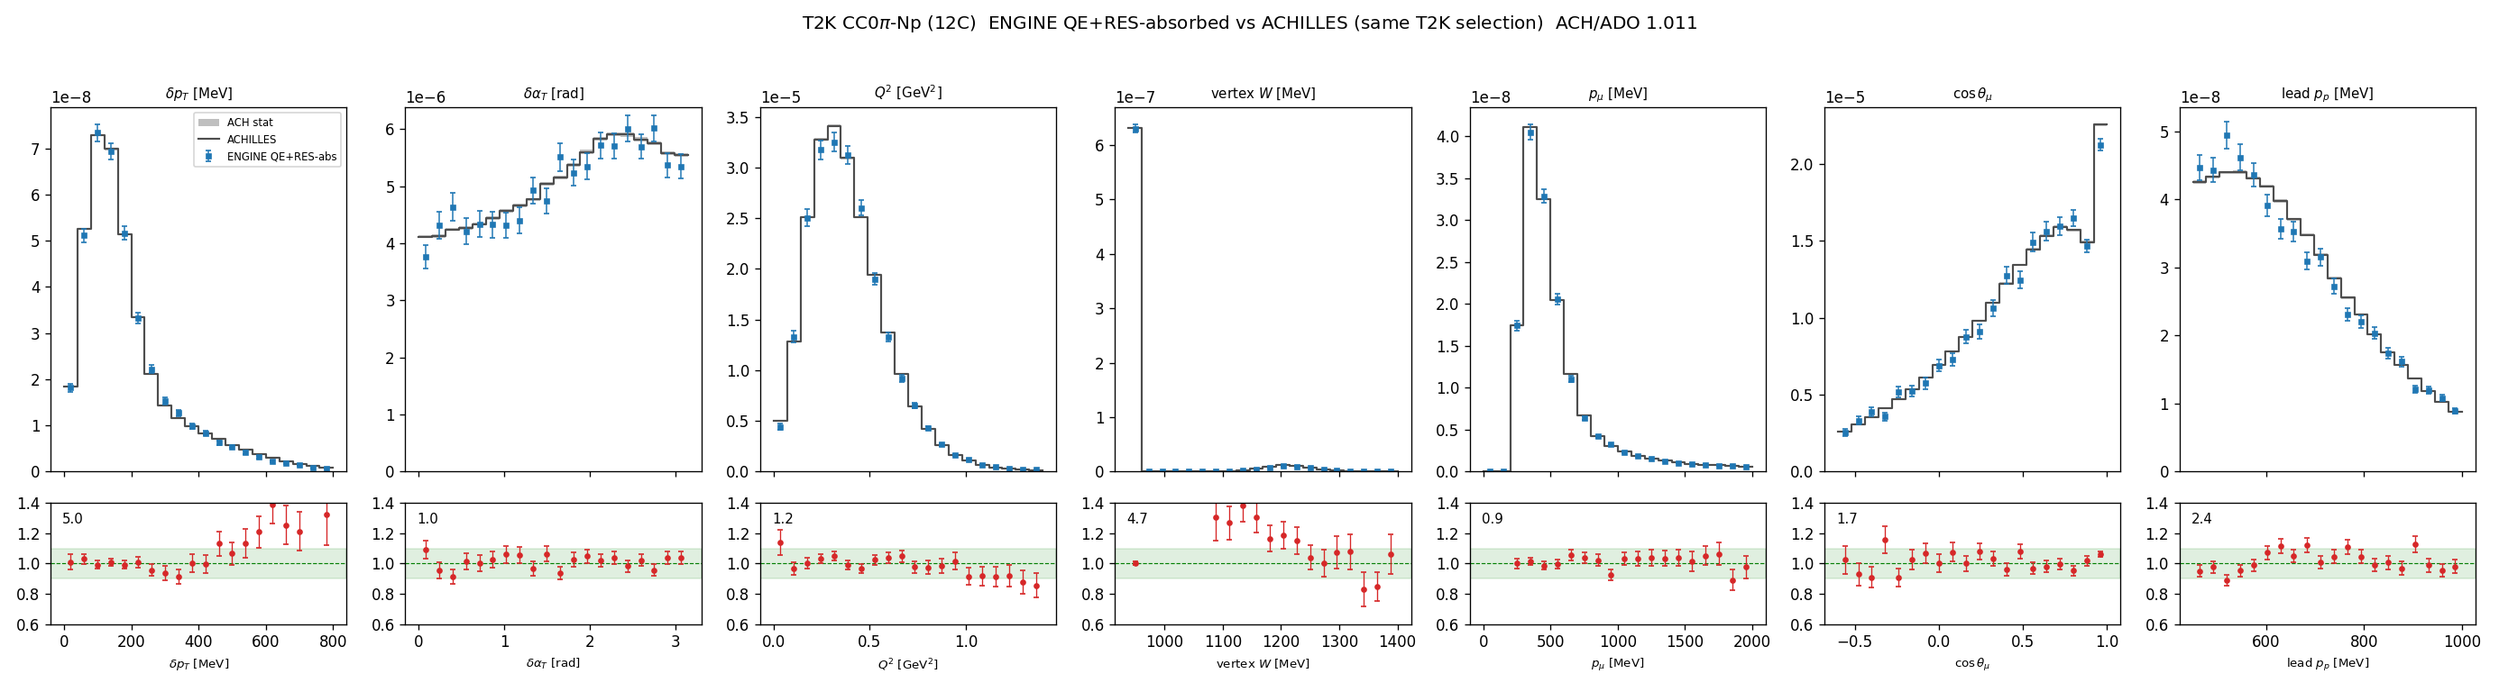
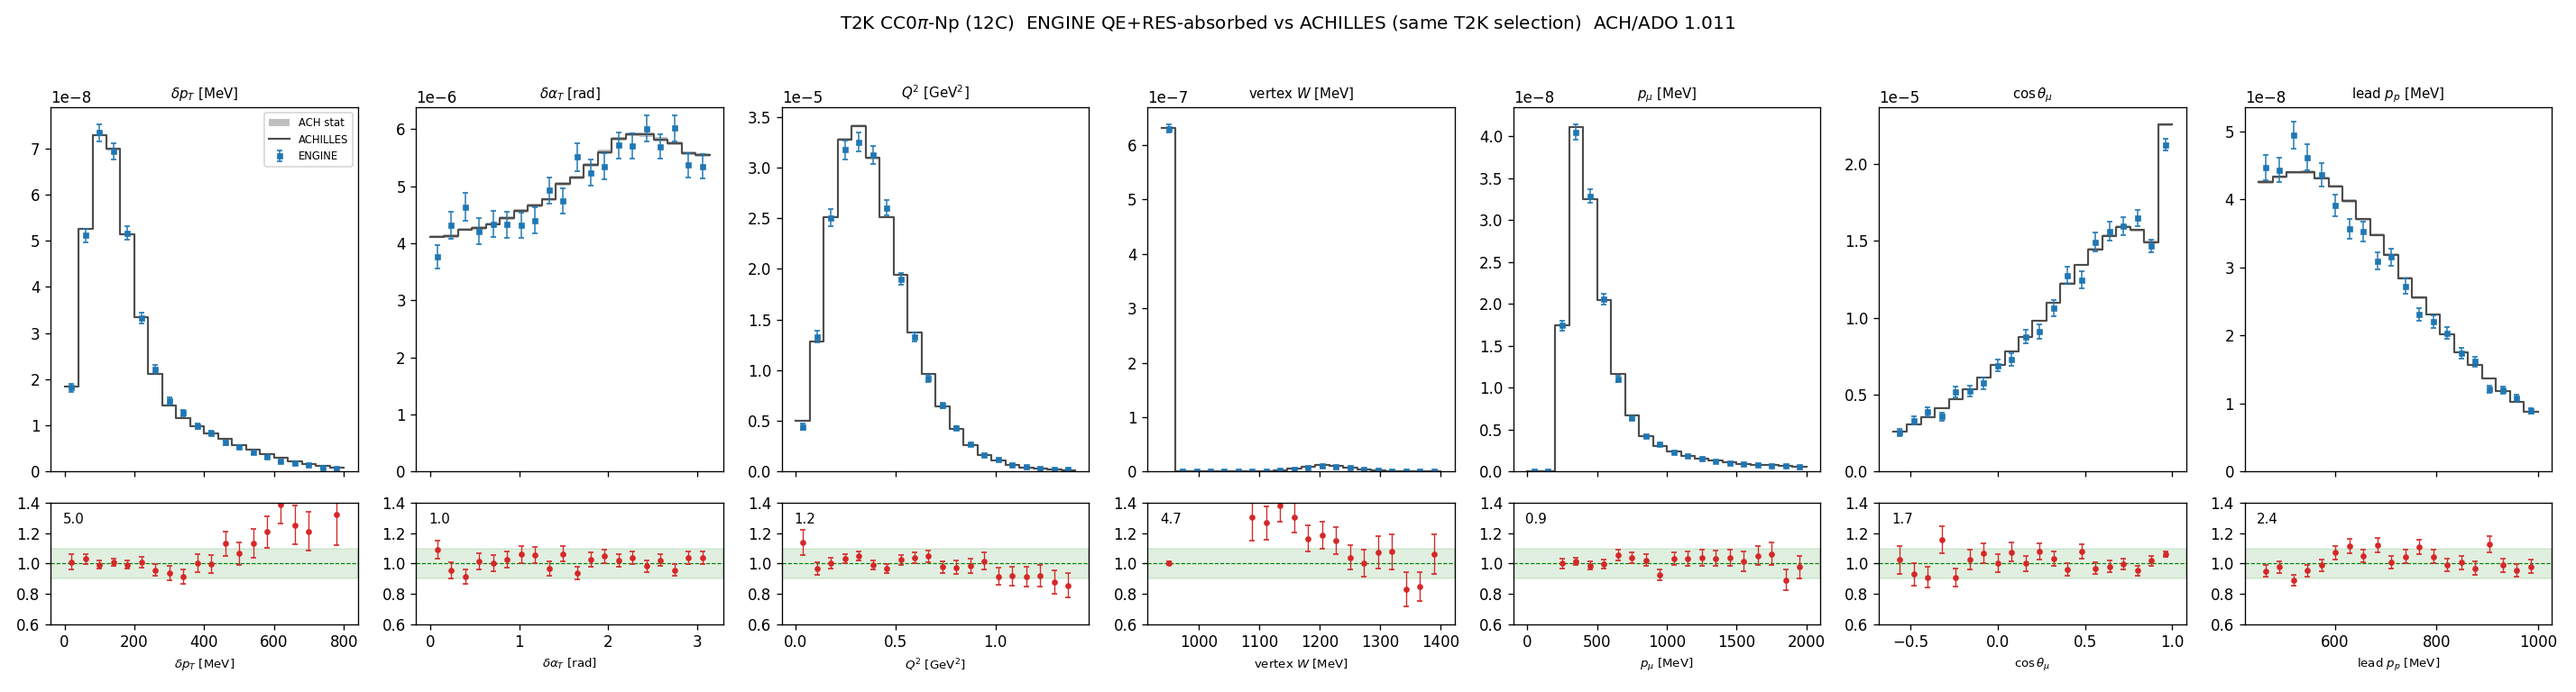
workflow S8: archive 7 superseded scripts -> scripts/_legacy/ (git mv, reversible; grep-verified no importers) + README mapping each to its config/module replacement. Configs still render (CC1pi 1.012 / CC0pi 1.011) post-archive; focused pytest green

diff --git a/scripts/_legacy/README.md b/scripts/_legacy/README.md
@@ -1,0 +1,25 @@
+# Legacy scripts (archived, reversible)
+
+These one-off scripts are **superseded by the YAML-config workflow API** (`adonis/workflow/`, driven
+by `scripts/adonis_generate.py` / `scripts/adonis_analyze.py` + `configs/*.yaml`).  They are kept here
+for reference, not deleted.  Verified no module imports them at archive time.
+
+| archived script | replaced by |
+|---|---|
+| `cc0pi_compare.py`      | `configs/ana_cc0pi.yaml` + `scripts/adonis_analyze.py` (engine, absolute) |
+| `cc0pi_ratios.py`       | `configs/ana_cc0pi.yaml` (per-observable ACH/ADO ratios) |
+| `cc0pi_fig_tki.py`      | `configs/ana_cc0pi.yaml` (dpt/dalphat; data overlay via `data:` block) |
+| `cc1pi_ratios.py`       | `configs/ana_cc1pi.yaml` |
+| `cc1pi_plot.py`         | `configs/ana_cc1pi.yaml` + `scripts/adonis_analyze.py` |
+| `gen_t2k_cc0pi_xsec.py` | `configs/gen_cc0pi.yaml` + `scripts/adonis_generate.py` (engine RICH bank) |
+| `gen_t2k_cc1pi_xsec.py` | `configs/gen_cc1pi.yaml` + `scripts/adonis_generate.py` |
+
+The canonical engine scripts `cc1pi_engine_plot.py` / `cc0pi_engine_combined.py` are KEPT (they are the
+parity reference for the config workflow and are imported by `chi2_validity.py`).  `cc1pi_signal.py`
+(`ach_select`) and `cc1pi_fig_tki.py` (`observables`) are KEPT — still imported by `adonis/workflow/`.
+
+Moderate-risk scripts not yet archived (no config reproduces them yet): `cc0pi_disaggregated.py`,
+`cc1pi_disaggregated.py`, `gen_t2k_cc0pi_combined.py`.  The other ~25 duplicated chi2-loop scripts
+migrate to `adonis/workflow/plotting.py` incrementally in a later pass.
+
+To restore: `git mv scripts/_legacy/<name>.py scripts/<name>.py`.
